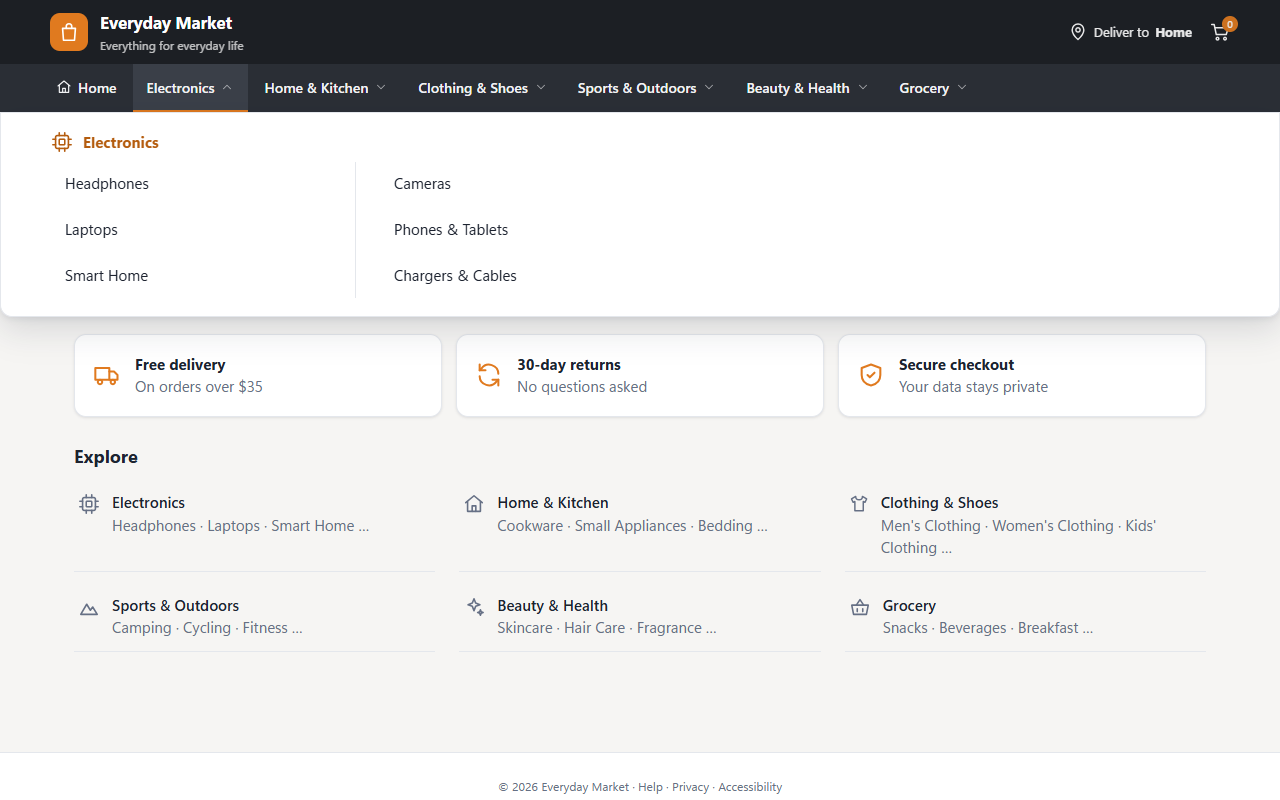
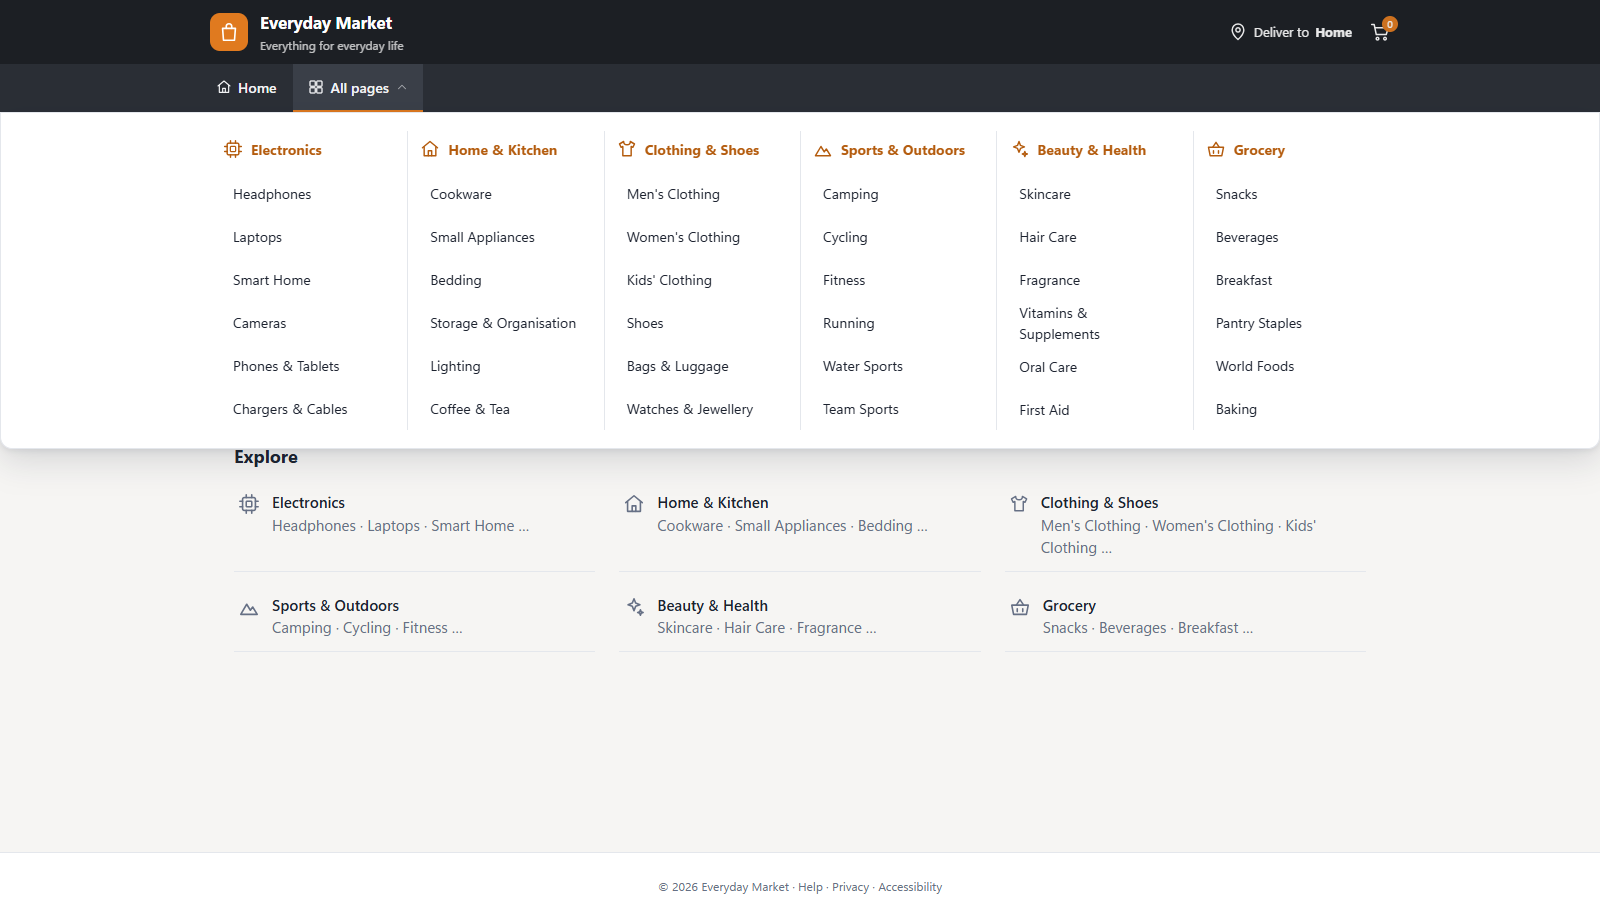
Make M5 mega-menu and M7 drawer more distinct
M5: one All pages button opens a full-width panel with every section as a column (2 clicks, no hover).
M7: wider drawer with drill-down section and page screens and a Back button (3 clicks).
Update click model, config, tests, MENUS.md, report and figures.

diff --git a/web/core/menus/drawer.js b/web/core/menus/drawer.js
@@ -1,7 +1,7 @@
-// M7: hamburger drawer (mobile style). Everything is hidden behind a menu button at the top left.
-// Press it to slide a drawer in from the left, press a section to unfold its pages (one at a time),
-// press a page. Closing the drawer forgets which section was unfolded, so reaching any page always
-// takes three presses.
+// M7: hamburger drawer (mobile style) with drill-down navigation. Everything is hidden behind a menu button at the
+// top left. Press it to slide a large drawer over the page; it first lists only the sections. Pressing a section
+// slides to a second screen holding that section's pages (with a Back button); press a page. Closing the drawer
+// returns it to the section list, so reaching any page always takes three presses.
 export default function create(api) {
   const { site, esc, icon } = api;
 
@@ -15,32 +15,38 @@ export default function create(api) {
       <div class="drawer-backdrop"></div>
       <aside class="drawer" data-menu-root aria-label="Site menu">
         <div class="drawer-head"><span>Menu</span><button class="drawer-close" aria-label="Close menu">${icon('x')}</button></div>
-        <ul class="acc">
+        <div class="drill-views">
+          <ul class="acc drill-root">
+            ${site.sections.map((s) => `
+              <li><button class="acc-head" data-section="${s.id}">${icon(s.icon, 'acc-icon')}<span>${esc(s.title)}</span>${icon('chevron', 'chev')}</button></li>`).join('')}
+          </ul>
           ${site.sections.map((s) => `
-            <li class="acc-sec" data-section="${s.id}">
-              <button class="acc-head" data-section="${s.id}" aria-expanded="false">${icon(s.icon, 'acc-icon')}<span>${esc(s.title)}</span>${icon('chevron', 'chev')}</button>
-              <ul class="acc-pages" hidden>${s.pages.map((p) => `<li><button class="acc-page" data-page="${p.id}">${esc(p.title)}</button></li>`).join('')}</ul>
-            </li>`).join('')}
-        </ul>
+            <div class="drill-view" data-section="${s.id}" hidden>
+              <button class="drill-back" data-back>${icon('chevron', 'chev')}<span>${esc(s.title)}</span></button>
+              <ul class="acc-pages">${s.pages.map((p) => `<li><button class="acc-page" data-page="${p.id}">${esc(p.title)}</button></li>`).join('')}</ul>
+            </div>`).join('')}
+        </div>
       </aside>
     </div>`;
   const bar = api.slots.nav.querySelector('.nav');
   const wrap = api.slots.overlay.querySelector('.drawer-wrap');
   const burger = bar.querySelector('.hamburger');
-  let expanded = null;                       // the unfolded accordion section, for plan()
+  const rootList = wrap.querySelector('.drill-root');
+  const views = [...wrap.querySelectorAll('.drill-view')];
+  let expanded = null;                       // the section whose page screen is showing, for plan()
+
+  function show(sid) {
+    expanded = sid;
+    rootList.hidden = sid != null;
+    views.forEach((v) => { v.hidden = v.dataset.section !== sid; });
+    wrap.querySelector('.drawer-head span').textContent = 'Menu';
+  }
 
   function setDrawer(on) {
     wrap.hidden = !on;
     burger.setAttribute('aria-expanded', on);
     burger.classList.toggle('open', on);
-    if (!on) {
-      expanded = null;
-      wrap.querySelectorAll('.acc-sec').forEach((li) => {
-        li.classList.remove('open');
-        li.querySelector('.acc-pages').hidden = true;
-        li.querySelector('.acc-head').setAttribute('aria-expanded', false);
-      });
-    }
+    if (!on) show(null);
   }
 
   api.item(burger, { id: 'nav:menu', level: 'control' }, () => {
@@ -52,19 +58,14 @@ export default function create(api) {
     setDrawer(false);
     api.setOpen(null, 'close');
   });
-  wrap.querySelectorAll('.acc-sec').forEach((li) => {
-    const sid = li.dataset.section;
-    api.item(li.querySelector('.acc-head'), { id: `nav:${sid}`, level: 'section', section: sid }, () => {
-      const wasOpen = li.classList.contains('open');
-      wrap.querySelectorAll('.acc-sec').forEach((o) => {
-        const on = o === li && !wasOpen;
-        o.classList.toggle('open', on);
-        o.querySelector('.acc-pages').hidden = !on;
-        o.querySelector('.acc-head').setAttribute('aria-expanded', on);
-      });
-      expanded = wasOpen ? null : sid;
-    });
-    li.querySelectorAll('.acc-page').forEach((b) => {
+  wrap.querySelectorAll('.acc-head').forEach((b) => {
+    const sid = b.dataset.section;
+    api.item(b, { id: `nav:${sid}`, level: 'section', section: sid }, () => show(sid));
+  });
+  views.forEach((v) => {
+    const sid = v.dataset.section;
+    api.item(v.querySelector('[data-back]'), { id: `nav:back:${sid}`, level: 'control' }, () => show(null));
+    v.querySelectorAll('.acc-page').forEach((b) => {
       api.item(b, { id: `item:${sid}/${b.dataset.page}`, level: 'page', section: sid, page: b.dataset.page });
     });
   });

diff --git a/web/core/menus.css b/web/core/menus.css
@@ -22,21 +22,21 @@ body.has-side .loader-bar { left: var(--side-w, 272px); }
 .nav-click .dropdown { min-width: 340px; padding: 8px; }
 .nav-click .dd-item { display: flex; align-items: center; min-height: var(--dd-item-h, 56px); padding: 0 20px; font-size: 16px; }
 
-/* ---------- M5: mega-menu ---------- */
+/* ---------- M5: mega-menu (one button, one full-width panel with every section as a column) ---------- */
 .nav-mega { position: relative; }
 .nav-mega .nav-li { position: static; }
 .nav-mega .dropdown.mega {
   left: 0; right: 0; min-width: 0; padding: 18px max(24px, calc((100% - var(--max)) / 2));
   border-radius: 0 0 var(--radius) var(--radius);
 }
-.mega-head { display: flex; align-items: center; gap: 10px; font-weight: 700; font-size: 15px; margin-bottom: 8px; color: var(--brand-strong); }
-.mega-icon { width: 22px; height: 22px; }
-.mega-cols { display: grid; grid-template-columns: 280px 280px; justify-content: start; }
-.mega-col { display: grid; align-content: start; gap: 2px; }
-.mega-col + .mega-col { border-left: 1px solid var(--line); padding-left: 24px; margin-left: 24px; }
+.mega-grid { display: grid; grid-template-columns: repeat(6, minmax(0, 1fr)); gap: 0; }
+.mega-col { display: grid; align-content: start; gap: 2px; padding: 0 12px; }
+.mega-col + .mega-col { border-left: 1px solid var(--line); }
+.mega-head { display: flex; align-items: center; gap: 8px; font-weight: 700; font-size: 14px; min-height: 36px; margin-bottom: 4px; color: var(--brand-strong); }
+.mega-icon { width: 20px; height: 20px; flex: none; }
 .mega-item {
-  display: flex; align-items: center; width: 100%; min-height: 44px; padding: 0 14px; border: 0; border-radius: 8px;
-  background: none; text-align: left; font-size: 15px; cursor: pointer;
+  display: flex; align-items: center; width: 100%; min-height: 41px; padding: 0 10px; border: 0; border-radius: 8px;
+  background: none; text-align: left; font-size: 14px; cursor: pointer;
 }
 .mega-item:hover { background: var(--brand-soft); color: var(--brand-strong); }
 
@@ -121,7 +121,7 @@ body.has-side .loader-bar { left: var(--side-w, 272px); }
 .drawer-wrap { position: fixed; inset: 0; }
 .drawer-backdrop { position: absolute; inset: 0; background: rgba(15, 23, 42, .35); }
 .drawer {
-  position: absolute; top: 0; left: 0; bottom: 0; width: 320px; overflow-y: auto; background: var(--surface); color: var(--ink);
+  position: absolute; top: 0; left: 0; bottom: 0; width: min(560px, 82vw); overflow-y: auto; background: var(--surface); color: var(--ink);
   box-shadow: var(--shadow-lg); animation: slide .16s ease-out;
 }
 @keyframes slide { from { opacity: .3; transform: translateX(-20px); } }
@@ -136,6 +136,10 @@ body.has-side .loader-bar { left: var(--side-w, 272px); }
 .acc-head:hover, .acc-sec.open > .acc-head { background: var(--nav-hover); }
 .acc-head .chev { margin-left: auto; }
 .acc-sec.open .chev { transform: rotate(180deg); }
+.drill-back { display: flex; align-items: center; gap: 10px; width: 100%; min-height: 52px; padding: 0 16px; border: 0; border-bottom: 1px solid var(--line); background: var(--nav-hover); font-size: 16px; font-weight: 700; cursor: pointer; }
+.drill-back .chev { transform: rotate(90deg); }
+.drill-view .acc-pages { margin: 8px; padding: 0; border: 0; display: grid; gap: 2px; }
+.drill-view .acc-page { min-height: 52px; font-size: 16px; }
 .acc-icon { width: 22px; height: 22px; color: var(--muted); }
 .acc-pages { list-style: none; margin: 2px 0 8px 22px; padding: 0 0 0 14px; border-left: 2px solid var(--line); }
 .acc-page { display: block; width: 100%; min-height: 44px; padding: 0 12px; border: 0; border-radius: 8px; background: none; text-align: left; font-size: 14px; cursor: pointer; }

diff --git a/web/core/menus/mega-menu.js b/web/core/menus/mega-menu.js
@@ -1,4 +1,66 @@
-// M5: hover or click a section to open one wide panel showing all of its pages, in two columns.
-import { createTopbar } from './topbar.js';
+// M5: mega-menu. One "All pages" button in the bar (no per-section buttons, no hover). Clicking it opens a single
+// full-width panel that shows every section as a headed column with all of its pages at once, so nothing has to be
+// chosen or unfolded first: open the panel, scan, click the page. Closes on selection, Escape or an outside click.
+export default function create(api) {
+  const { site, esc, icon } = api;
 
-export default (api) => createTopbar(api, { hover: true, leaveClose: true, panel: 'mega', cls: 'mega' });
+  api.slots.nav.innerHTML = `
+    <nav class="nav nav-mega" data-menu-root aria-label="Main menu">
+      <ul class="nav-list">
+        <li class="nav-li"><button class="nav-item nav-home" data-home>${icon('home')}Home</button></li>
+        <li class="nav-li mega-li">
+          <button class="nav-item mega-btn" aria-expanded="false" aria-haspopup="true">${icon('grid')}All pages${icon('chevron', 'chev')}</button>
+          <div class="dropdown mega" role="menu" hidden>
+            <div class="mega-grid">
+              ${site.sections.map((s) => `
+                <div class="mega-col" data-section="${s.id}">
+                  <div class="mega-head">${icon(s.icon, 'mega-icon')}<span>${esc(s.title)}</span></div>
+                  ${s.pages.map((p) => `<button class="mega-item" role="menuitem" data-section="${s.id}" data-page="${p.id}">${esc(p.title)}</button>`).join('')}
+                </div>`).join('')}
+            </div>
+          </div>
+        </li>
+      </ul>
+    </nav>`;
+  const root = api.slots.nav.querySelector('.nav');
+  const li = root.querySelector('.mega-li');
+  const btn = li.querySelector('.mega-btn');
+  const panel = li.querySelector('.dropdown');
+
+  function render(on) {
+    li.classList.toggle('open', on);
+    btn.setAttribute('aria-expanded', on);
+    panel.hidden = !on;
+  }
+
+  api.item(btn, { id: 'nav:all', level: 'control' }, () => {
+    const on = api.open !== 'mega';
+    render(on);
+    api.setOpen(on ? 'mega' : null, on ? 'click' : 'toggle');
+  });
+  panel.querySelectorAll('.mega-item').forEach((b) => {
+    api.item(b, { id: `item:${b.dataset.section}/${b.dataset.page}`, level: 'page', section: b.dataset.section, page: b.dataset.page });
+  });
+  api.item(root.querySelector('[data-home]'), { id: 'nav:home', level: 'home' });
+
+  return {
+    collapse(reason) {
+      if (api.open == null) return false;
+      render(false);
+      api.setOpen(null, reason);
+      return true;
+    },
+    reset() { render(false); },
+    onCommit() {
+      render(false);
+      api.setOpen(null, 'select');
+    },
+    openSection() { render(true); api.setOpen('mega', 'preview'); },
+    plan(section, page) {
+      const acts = [];
+      if (api.open !== 'mega') acts.push({ do: 'click', aoi: 'nav:all', wait: 200 });
+      acts.push({ do: 'click', aoi: `item:${section}/${page}` });
+      return acts;
+    },
+  };
+}

diff --git a/web/core/menus/topbar.js b/web/core/menus/topbar.js
@@ -1,25 +1,17 @@
 // Shared implementation of the three "section bar + panel" menus:
-//   M1 hover drop-down, M4 click drop-down with large targets, M5 mega-menu.
-// They differ only in how the panel opens/closes (hover vs click) and how the panel looks.
+//   M1 hover drop-down and M4 click drop-down with large targets.
+// They differ only in how the panel opens/closes (hover vs click) and in target size.
 //
 // opts = {
 //   hover:      open on pointer hover (after an intent delay) as well as on click
 //   leaveClose: close shortly after the pointer leaves the section + panel
-//   panel:      'list' (a narrow list) | 'mega' (a wide panel, pages in two columns)
+//   panel:      'list'
 //   cls:        CSS modifier
 // }
 export function createTopbar(api, opts) {
   const { site, params, esc, icon } = api;
   const timers = {};
 
-  const mega = (s) => `
-      <div class="dropdown mega" role="menu" hidden>
-        <div class="mega-head">${icon(s.icon, 'mega-icon')}<span>${esc(s.title)}</span></div>
-        <div class="mega-cols">
-          ${[s.pages.slice(0, 3), s.pages.slice(3)].map((col) => `
-            <div class="mega-col">${col.map((p) => `<button class="mega-item" role="menuitem" data-section="${s.id}" data-page="${p.id}">${esc(p.title)}</button>`).join('')}</div>`).join('')}
-        </div>
-      </div>`;
   const list = (s) => `
       <div class="dropdown" role="menu" hidden>
         ${s.pages.map((p) => `<button class="dd-item" role="menuitem" data-section="${s.id}" data-page="${p.id}">${esc(p.title)}</button>`).join('')}
@@ -32,7 +24,7 @@ export function createTopbar(api, opts) {
         ${site.sections.map((s) => `
           <li class="nav-li" data-section="${s.id}">
             <button class="nav-item" data-section="${s.id}" aria-expanded="false" aria-haspopup="true">${esc(s.title)}${icon('chevron', 'chev')}</button>
-            ${opts.panel === 'mega' ? mega(s) : list(s)}
+            ${list(s)}
           </li>`).join('')}
       </ul>
     </nav>`;
@@ -81,7 +73,7 @@ export function createTopbar(api, opts) {
         timers.leave = setTimeout(() => api.open === sid && collapse('leave'), params.leave_close_ms);
       });
     }
-    li.querySelectorAll('.dd-item, .mega-item').forEach((b) => {
+    li.querySelectorAll('.dd-item').forEach((b) => {
       api.item(b, { id: `item:${sid}/${b.dataset.page}`, level: 'page', section: sid, page: b.dataset.page });
     });
   });

diff --git a/report/main.tex b/report/main.tex
@@ -124,9 +124,9 @@ navigating changes (Table~\ref{tab:menus}; full specification in \cmd{MENUS.md})
  & M2 & Persistent left sidebar tree & 2 clicks, 1 if the section is already open\\
  & M3 & Hub and spoke: top tabs open six large cards & 2 clicks\\
 \textcolor{g2}{\textbf{G2}} & M4 & Click drop-down with large targets (56\,px) & 2 clicks\\
- & M5 & Mega-menu: one wide panel per section & 1 click (hover, click)\\
+ & M5 & Mega-menu: one ``All pages'' button opens a full-width panel of every section & 2 clicks\\
  & M6 & Search-first: type-ahead over all 36 page titles, Browse as fallback & 1--2 clicks and typing\\
-\textcolor{g3}{\textbf{G3}} & M7 & Hamburger drawer with accordion sections & 3 clicks\\
+\textcolor{g3}{\textbf{G3}} & M7 & Hamburger drawer with drill-down screens & 3 clicks\\
  & M8 & Radial (pie) menu: six sectors, then a ring of six pages & 2 clicks\\
  & M9 & Always-visible two-row tab bar & 2 clicks, 1 if the section is already selected\\
 \bottomrule

diff --git a/tests/test_menus_browser.py b/tests/test_menus_browser.py
@@ -180,7 +180,7 @@ def clicks_for(page_obj, section, page):
 
 @pytest.mark.parametrize("group,menu_id,second_page_clicks", [
     ("G1", "M2", 1), ("G3", "M9", 1),                       # persistent: the section stays open
-    ("G1", "M1", 1), ("G1", "M3", 2), ("G2", "M4", 2), ("G2", "M5", 1), ("G3", "M7", 3), ("G3", "M8", 2),   # not persistent
+    ("G1", "M1", 1), ("G1", "M3", 2), ("G2", "M4", 2), ("G2", "M5", 2), ("G3", "M7", 3), ("G3", "M8", 2),   # not persistent
 ], ids=lambda v: str(v))
 def test_a_second_page_in_the_same_section_costs_what_the_model_says(browser, base_url, group, menu_id, second_page_clicks):
     from hci import menus

diff --git a/tests/test_core.py b/tests/test_core.py
@@ -94,7 +94,7 @@ def test_every_group_has_three_menus_and_menus_are_nested(cfg):
 
 
 # fewest-clicks range of the fastest path to one page, over every menu state (documented in MENUS.md)
-DOCUMENTED_CLICKS = {"M1": (1, 1), "M2": (1, 2), "M3": (2, 2), "M4": (2, 2), "M5": (1, 1), "M6": (1, 1),
+DOCUMENTED_CLICKS = {"M1": (1, 1), "M2": (1, 2), "M3": (2, 2), "M4": (2, 2), "M5": (2, 2), "M6": (1, 1),
                      "M7": (3, 3), "M8": (2, 2), "M9": (1, 2)}
 
 

diff --git a/hci/menus.py b/hci/menus.py
@@ -42,7 +42,8 @@ def _click_dropdown(state, section):
 
 
 def _mega(state, section):
-    return [Move(Cost(1, 2), None), Move(Cost(2, 2), None)]
+    # click the single "All pages" button, then click the page in the full-width panel
+    return [Move(Cost(2, 2), None)]
 
 
 def _hub(state, section):

diff --git a/MENUS.md b/MENUS.md
@@ -10,7 +10,7 @@ page content is identical in every menu. Only the way of navigating changes.
 | | **M2** | Persistent sidebar tree | sections visible, pages hidden | click | 1–2 clicks |
 | | **M3** | Hub and spoke | yes | click | 2 clicks |
 | G2 store | **M4** | Click drop-down with large targets | yes | click | 2 clicks |
-| | **M5** | Mega-menu | yes | hover (or click) | 1 click, 2 steps |
+| | **M5** | Mega-menu | yes (all sections at once) | click | 2 clicks |
 | | **M6** | Search-first | yes (search or browse) | typing | 1 click + typing, 3 steps |
 | G3 forum | **M7** | Hamburger drawer | yes | click | 3 clicks |
 | | **M8** | Radial (pie) menu | yes | hover + click | 2 clicks, 3 steps |
@@ -20,7 +20,7 @@ Configuration lives in [config/menus.yaml](config/menus.yaml) (names, participan
 [config/groups.yaml](config/groups.yaml) (`menus:` per group). Preview any of them without recording anything:
 
 ```powershell
-python run.py preview --group G2 --menu M5      # opens the store with the mega-menu; a green box lists the events it logs
+python run.py preview --group G2 --menu M5      # opens the store with the mega-menu (add --debug for a box listing the logged events)
 python run.py preview --group G3 --menu M8
 ```
 
@@ -54,7 +54,7 @@ python run.py preview --group G3 --menu M8
 | `page_view` / `home_view` | The page that was chosen is now showing (after any induced lag). |
 | `backtrack` | See the definition above. |
 
-Panels are named `drawer` (M7), `radial` (M8), `search` and `browse` (M6); in the other menus the panel is the
+Panels are named `mega` (M5), `drawer` (M7), `radial` (M8), `search` and `browse` (M6); in the other menus the panel is the
 section id. Plus the engine-level events shared by every menu: `click`, `scroll`, `sabotage_*`, `click_while_loading`.
 
 ## Induced faults (menu-independent)
@@ -105,13 +105,13 @@ click a card. The hub stays open until a card is chosen, another tab is clicked,
 **Larger targets by design:** list items 56 px tall, panel 340 px wide (`item_height_px: 56`).
 
 ## M5 · Mega-menu (G2)
-**Idea:** more visible, fewer steps: one wide panel shows all six pages of the section at once.
-**How:** point at (150 ms intent delay) or click a section; a panel spanning the page width opens, with the section
-heading and the six pages in two columns of three; click a page. Closes when the pointer leaves, on Escape, outside
-click or selection.
-**Clicks to any page:** 1 (hover then click) · steps: 2 · click-to-open: 2.
-**Parameters:** `hover_open_ms: 150`, `leave_close_ms: 400`. Items 44 px tall. *Deviation note:* with a hover trigger
-M5 has the same click cost as M1; it differs by showing the whole section as a wide, grouped panel.
+**Idea:** see everything at once: no section choice, no hover.
+**How:** the bar holds only Home and one **All pages** button. Click it; a full-width panel opens showing all six
+sections side by side as headed columns, each with its six pages (36 pages in view). Click a page. Closes on
+selection, Escape, a second click on the button or an outside click. Hovering does nothing.
+**Clicks to any page:** always 2 (open the panel, click the page) · steps: 2.
+**Parameters:** none; items are 41 px tall. *Distinct from M1 and M4:* they reveal one section at a time after a choice
+among sections; M5 has no section step, trading one click for a wider scan.
 
 ## M6 · Search-first (G2)
 **Idea:** typing instead of pointing.
@@ -126,12 +126,14 @@ Note that tasks name an *item* (for example "Burr Coffee Grinder"), not its page
 first work out which page to search for, as in every other menu.
 
 ## M7 · Hamburger drawer (G3)
-**Idea:** hidden, mobile-style.
-**How:** press the menu button (three lines) at the top left; a 320 px drawer slides in from the left over a dimmed page;
-press a section to unfold its pages (one at a time), press a page. Closing the drawer forgets the unfolded section, so
-there is no history dependence. Home is always visible next to the button.
-**Clicks to any page:** always 3.
-**Parameters:** `accordion: true`. Rows are 44–48 px tall.
+**Idea:** hidden, mobile-style, with drill-down screens.
+**How:** press the menu button (three lines) at the top left; a wide drawer (up to 560 px) slides in over a dimmed page
+and lists only the six sections. Press a section: the drawer **replaces** the list with that section's pages and a Back
+button; press a page. Closing the drawer returns it to the section list, so there is no history dependence. Home is
+always visible next to the button.
+**Clicks to any page:** always 3. (Back is an extra click only if the participant picked the wrong section.)
+**Parameters:** `drill_down: true`. Rows are 52 px on the page screen. *Distinct from M2:* the sidebar tree is always
+on screen and unfolds pages in place; the drawer is hidden and moves between two screens.
 
 ## M8 · Radial (pie) menu (G3)
 **Idea:** spatial, gesture-like; sectors and pages are always at the same angles.
@@ -161,14 +163,14 @@ are highlighted.
 | M2 | 1–2 | 1–2 | click, click |
 | M3 | 2–2 | 2 | click, click |
 | M4 | 2–2 | 2 | click, click |
-| M5 | 1–1 | 2 | hover, click |
+| M5 | 2–2 | 2 | click, click |
 | M6 | 1–1 (Enter) or 2 (suggestion) | 3 | click box, type, Enter/click |
 | M7 | 3–3 | 3 | click, click, click |
 | M8 | 2–2 | 3 | click, hover, click |
 | M9 | 1–2 | 1–2 | click, click |
 
 Total fastest clicks for the 4 tasks of one subset (six subsets): M1 5·5·5·5·5·5 · M2 10·10·10·9·10·9 · M3 10 every subset ·
-M4 10 · M5 5 · M6 5 · M7 15 · M8 10 · M9 9·9·10·9·10·9. Within a menu the six subsets cost about the same, so a subset can be paired with any menu.
+M4 10 · M5 10 · M6 5 · M7 15 · M8 10 · M9 9·9·10·9·10·9. Within a menu the six subsets cost about the same, so a subset can be paired with any menu.
 
 ## Adding or changing a menu
 
